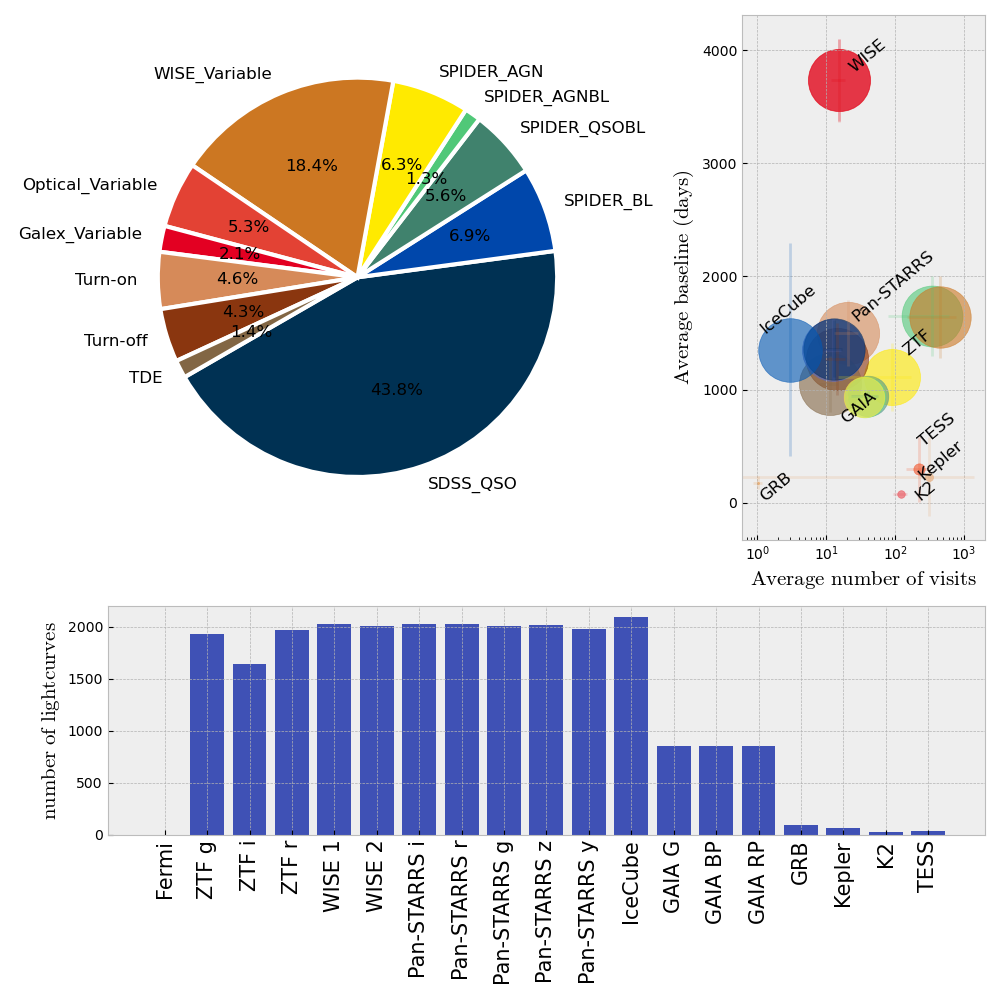
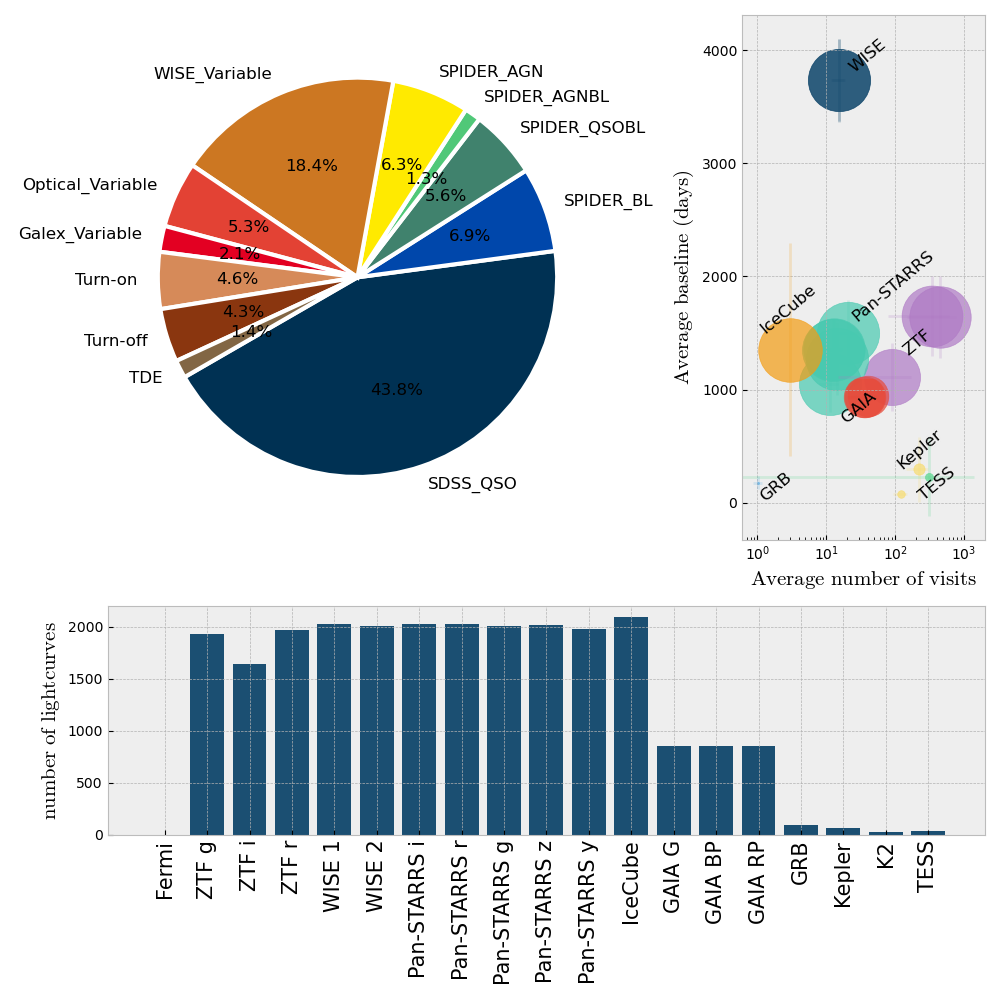
sample_plot improved

diff --git a/light_curves/ML_AGNzoo.md b/light_curves/ML_AGNzoo.md
@@ -190,13 +190,26 @@ for b in objid:
 
 i=0
 #plt.title(r'Time range and cadence covered in each in each waveband averaged over this sample:')
+colors2 = [
+    "#5499C7",  # Light Blue, reflecting the mood of the Blue Period and early Cubism
+    "#AF7AC5",  # Soft Lavender for the Rose Period and some Cubist works
+    "#1B4F72",  # Deep Blue from the Blue Period
+    "#48C9B0",  # Aqua Green, for a touch of the vibrancy in his later works
+    "#F39C12",  # Bright Yellow, representing the light and contrast in his Synthetic Cubism
+    "#E74C3C",  # Bright Red, common in his later, more expressive works
+    "#5DADE2",  # Sky Blue, evoking the Mediterranean influence in his work
+    "#F7DC6F",  # Light Yellow, capturing the warmth and innovation of his Synthetic Cubism period
+    "#58D68D",  # Light Green, reflecting the use of color in his later life
+
+]
+colorlabel = [0,1,1,1,2,2,3,3,3,3,3,4,5,5,5,6,7,7,8]
 for el in cadence.keys():
     #print(el,len(cadence[el]),np.mean(cadence[el]),np.std(cadence[el]))
     #print(el,len(timerange[el]),np.mean(timerange[el]),np.std(timerange[el]))
-    ax1.scatter(np.mean(cadence[el]),np.mean(timerange[el]),s=len(timerange[el]),alpha=0.6,c=colors[i+3])
-    ax1.errorbar(np.mean(cadence[el]),np.mean(timerange[el]),label=el,yerr=np.std(timerange[el]),xerr=np.std(cadence[el]),alpha=0.2,c=colors[i+3])
+    ax1.scatter(np.mean(cadence[el]),np.mean(timerange[el]),s=len(timerange[el]),alpha=0.7,c=colors2[colorlabel[i]])
+    ax1.errorbar(np.mean(cadence[el]),np.mean(timerange[el]),label=el,yerr=np.std(timerange[el]),xerr=np.std(cadence[el]),alpha=0.2,c=colors2[colorlabel[i]])
     i+=1
-
+    
 ax1.annotate('ZTF', # text to display
              (120, 1300),        # text location
              size=12, rotation=40 )
@@ -213,13 +226,10 @@ ax1.annotate('IceCube', # text to display
              (1, 1500),        # text location
              size=12, rotation=40 )
 ax1.annotate('TESS', # text to display
-             (200, 500),        # text location
+             (200, 20),        # text location
              size=12, rotation=40 )
 ax1.annotate('Kepler', # text to display
-             (200, 200),        # text location
-             size=12, rotation=40 )
-ax1.annotate('K2', # text to display
-             (180, 20),        # text location
+             (100, 300),        # text location
              size=12, rotation=40 )
 
 ax1.annotate('GRB', # text to display
@@ -239,12 +249,13 @@ for b in objid:
     bands = singleobj.loc[label[0],:,:].index.get_level_values('band')[:].unique()
     seen.update(bands)
     
-h = bottom_ax.bar(range(len(tiklabels)), seen.values(),color=colors[0])
+h = bottom_ax.bar(range(len(tiklabels)), seen.values(),color="#1B4F72")
 bottom_ax.set_xticks(range(len(tiklabels)),tiklabels,fontsize=15,rotation=90)
 bottom_ax.set_ylabel(r'$\rm number\ of\ lightcurves$',size=15)
 plt.tight_layout()
 
 plt.savefig('plots/sample.png')
+
 ```
 
 While from the histogram plot we see which bands have the highest number of observed lightcurves, what might matter more in finding/selecting variability or changing look in lightcurves is the cadence and the average baseline of observations. For instance, Panstarrs has a large number of lightcurve detections in our sample, but from the figure above we see that the average number of visits and the baseline for those observations are considerably less than ZTF. WISE also shows the longest baseline of observations which is suitable to finding longer term variability in objects.
